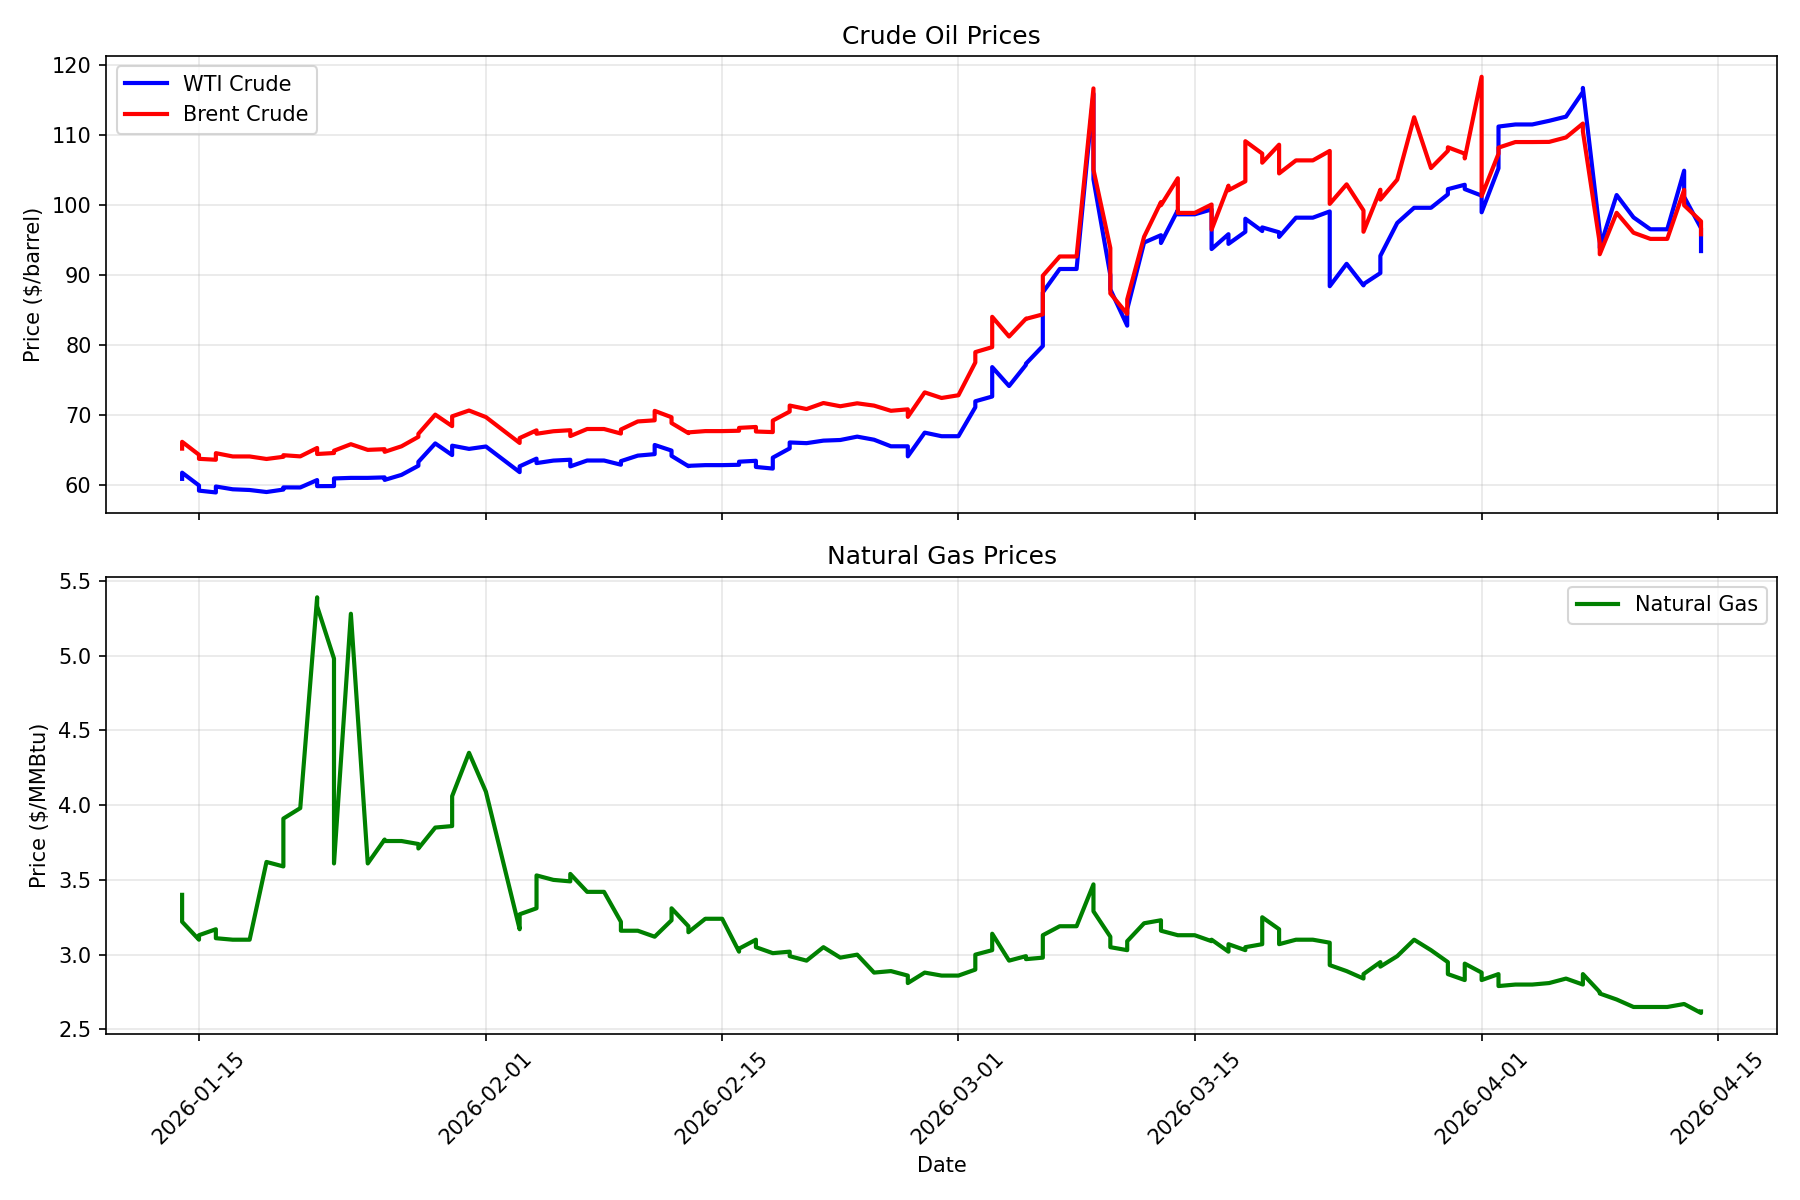
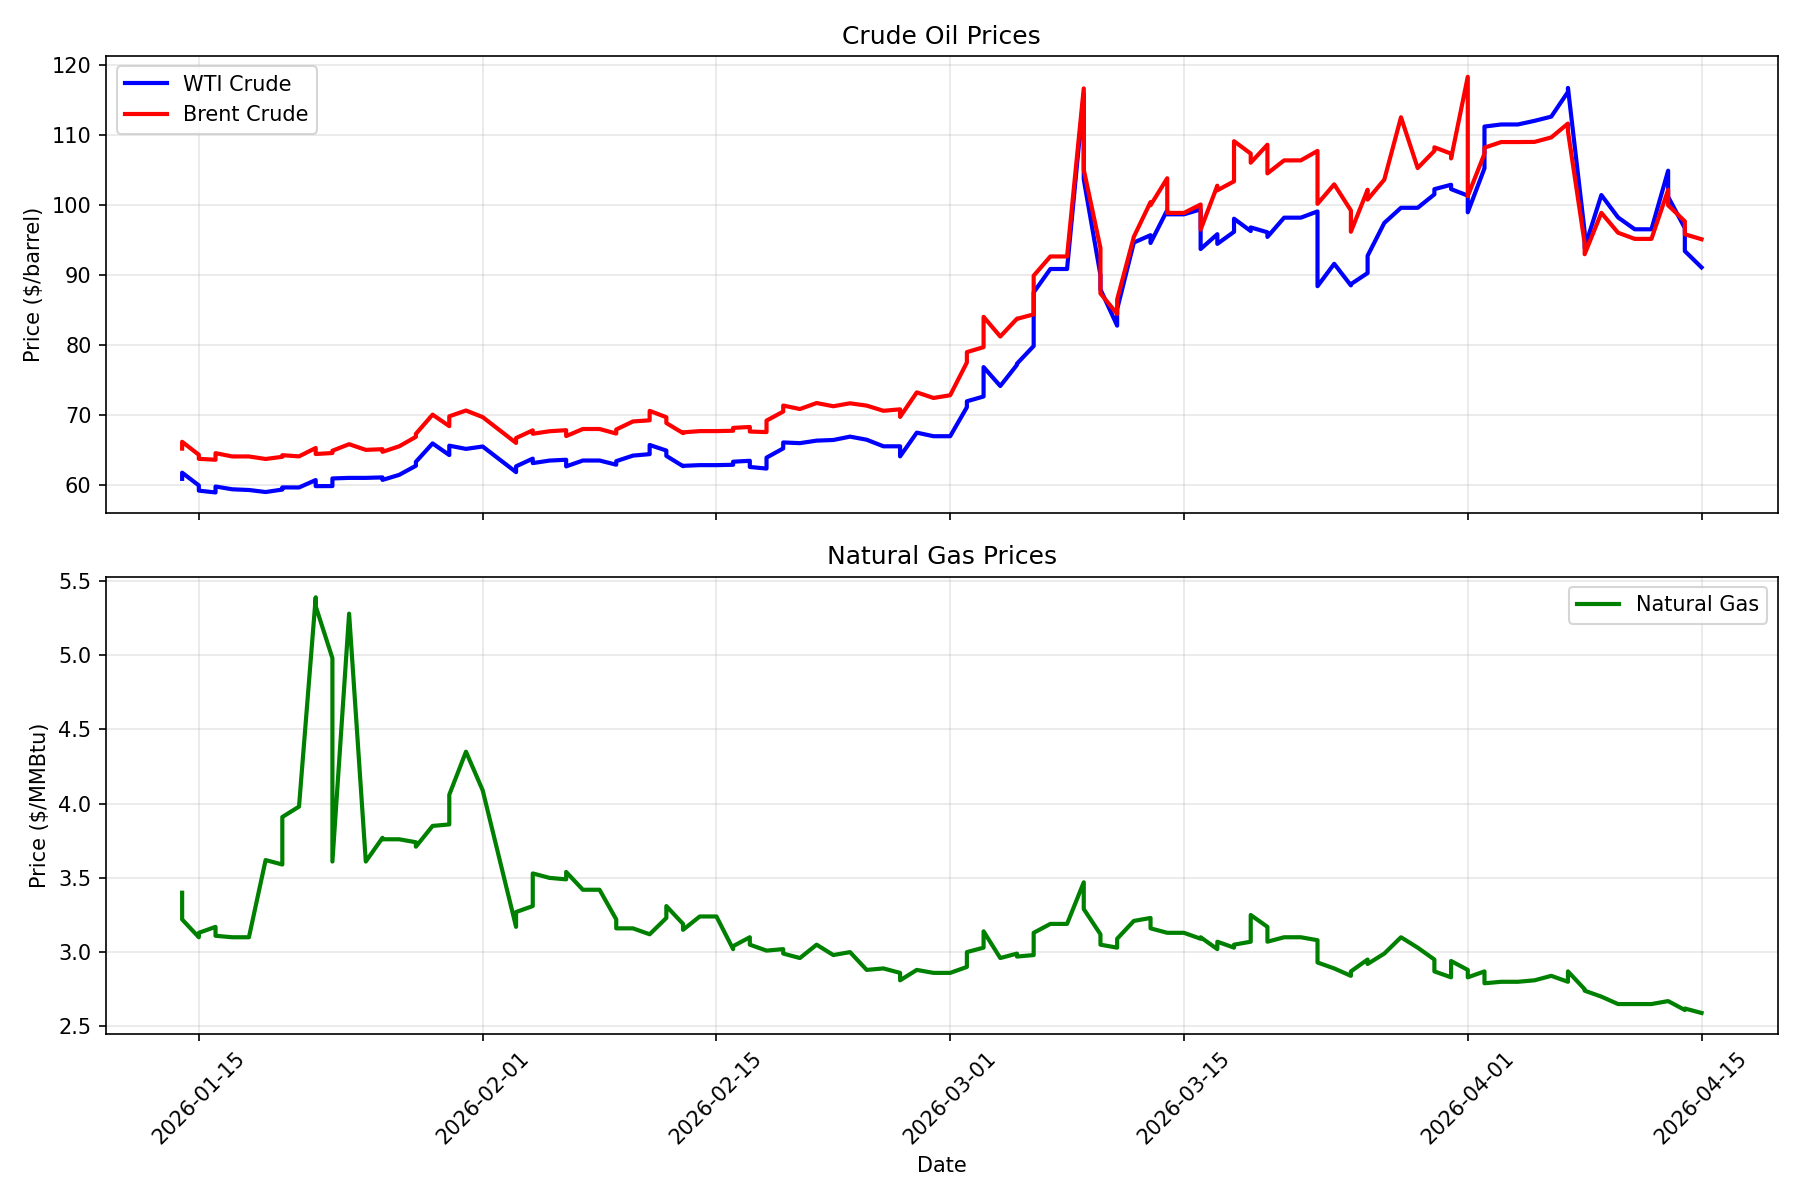
Daily price update: 2026-04-15

diff --git a/README.md b/README.md
@@ -2,29 +2,29 @@
 
 Automated daily tracking of chemical commodity prices and chemical company stocks.
 
-## Latest Prices (Updated: 2026-04-14)
+## Latest Prices (Updated: 2026-04-15)
 
 ### Energy Commodities
 
 | Commodity | Price | Change (24h) | Unit |
 |-----------|-------|--------------|------|
-| WTI Crude Oil | $93.46 | -5.62 (-5.67%) | $/barrel |
-| Brent Crude Oil | $95.86 | -3.50 (-3.52%) | $/barrel |
-| Natural Gas | $2.62 | -0.01 (-0.42%) | $/MMBtu |
-| Heating Oil | $3.55 | -0.29 (-7.46%) | $/gallon |
+| WTI Crude Oil | $91.13 | -0.15 (-0.16%) | $/barrel |
+| Brent Crude Oil | $95.15 | +0.36 (+0.38%) | $/barrel |
+| Natural Gas | $2.59 | -0.01 (-0.27%) | $/MMBtu |
+| Heating Oil | $3.49 | -0.13 (-3.59%) | $/gallon |
 
 ### Chemical Company Stocks
 
 | Company | Ticker | Price | Change (24h) |
 |---------|--------|-------|--------------|
-| Dow Inc. | DOW | $38.58 | -1.53 (-3.81%) |
-| LyondellBasell | LYB | $72.83 | -2.68 (-3.54%) |
-| DuPont | DD | $46.69 | -0.46 (-0.98%) |
-| Air Products | APD | $293.46 | -5.19 (-1.74%) |
-| Linde | LIN | $497.16 | -11.71 (-2.30%) |
-| Eastman Chemical | EMN | $74.50 | +0.49 (+0.66%) |
-| Celanese | CE | $65.09 | -3.13 (-4.59%) |
-| Huntsman | HUN | $13.63 | -0.41 (-2.92%) |
+| Dow Inc. | DOW | $39.16 | -0.95 (-2.37%) |
+| LyondellBasell | LYB | $73.25 | -2.26 (-2.99%) |
+| DuPont | DD | $46.68 | -0.47 (-1.00%) |
+| Air Products | APD | $296.63 | -2.02 (-0.68%) |
+| Linde | LIN | $499.65 | -9.22 (-1.81%) |
+| Eastman Chemical | EMN | $73.79 | -0.22 (-0.30%) |
+| Celanese | CE | $65.10 | -3.12 (-4.57%) |
+| Huntsman | HUN | $13.57 | -0.47 (-3.35%) |
 
 ## Data Sources
 

diff --git a/logs/update_log.md b/logs/update_log.md
@@ -162,3 +162,4 @@ Daily updates to the chemical engineering data repository.
 - **2026-04-13 14:31:27**: Updated 4 energy prices, 8 stocks, 0 FRED series
 - **2026-04-14 00:36:29**: Updated 4 energy prices, 8 stocks, 0 FRED series
 - **2026-04-14 14:33:12**: Updated 4 energy prices, 8 stocks, 0 FRED series
+- **2026-04-15 00:32:53**: Updated 4 energy prices, 8 stocks, 0 FRED series
